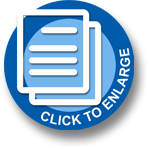
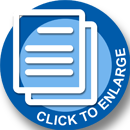
2

diff --git a/next_convention/index.html b/next_convention/index.html
@@ -179,7 +179,7 @@
           1. Use directional button to navigate the view.
         </h3>
         <h3 style="text-align: center; color: white">
-          2. Click the icons to enlarge the images. <img src="img/enlarge.png" width="24" height="24" />
+          2. Click the icons to enlarge the images. <img src="img/enlarge.png" width="32" height="32" />
         </h3>
       </div>
     </div>
